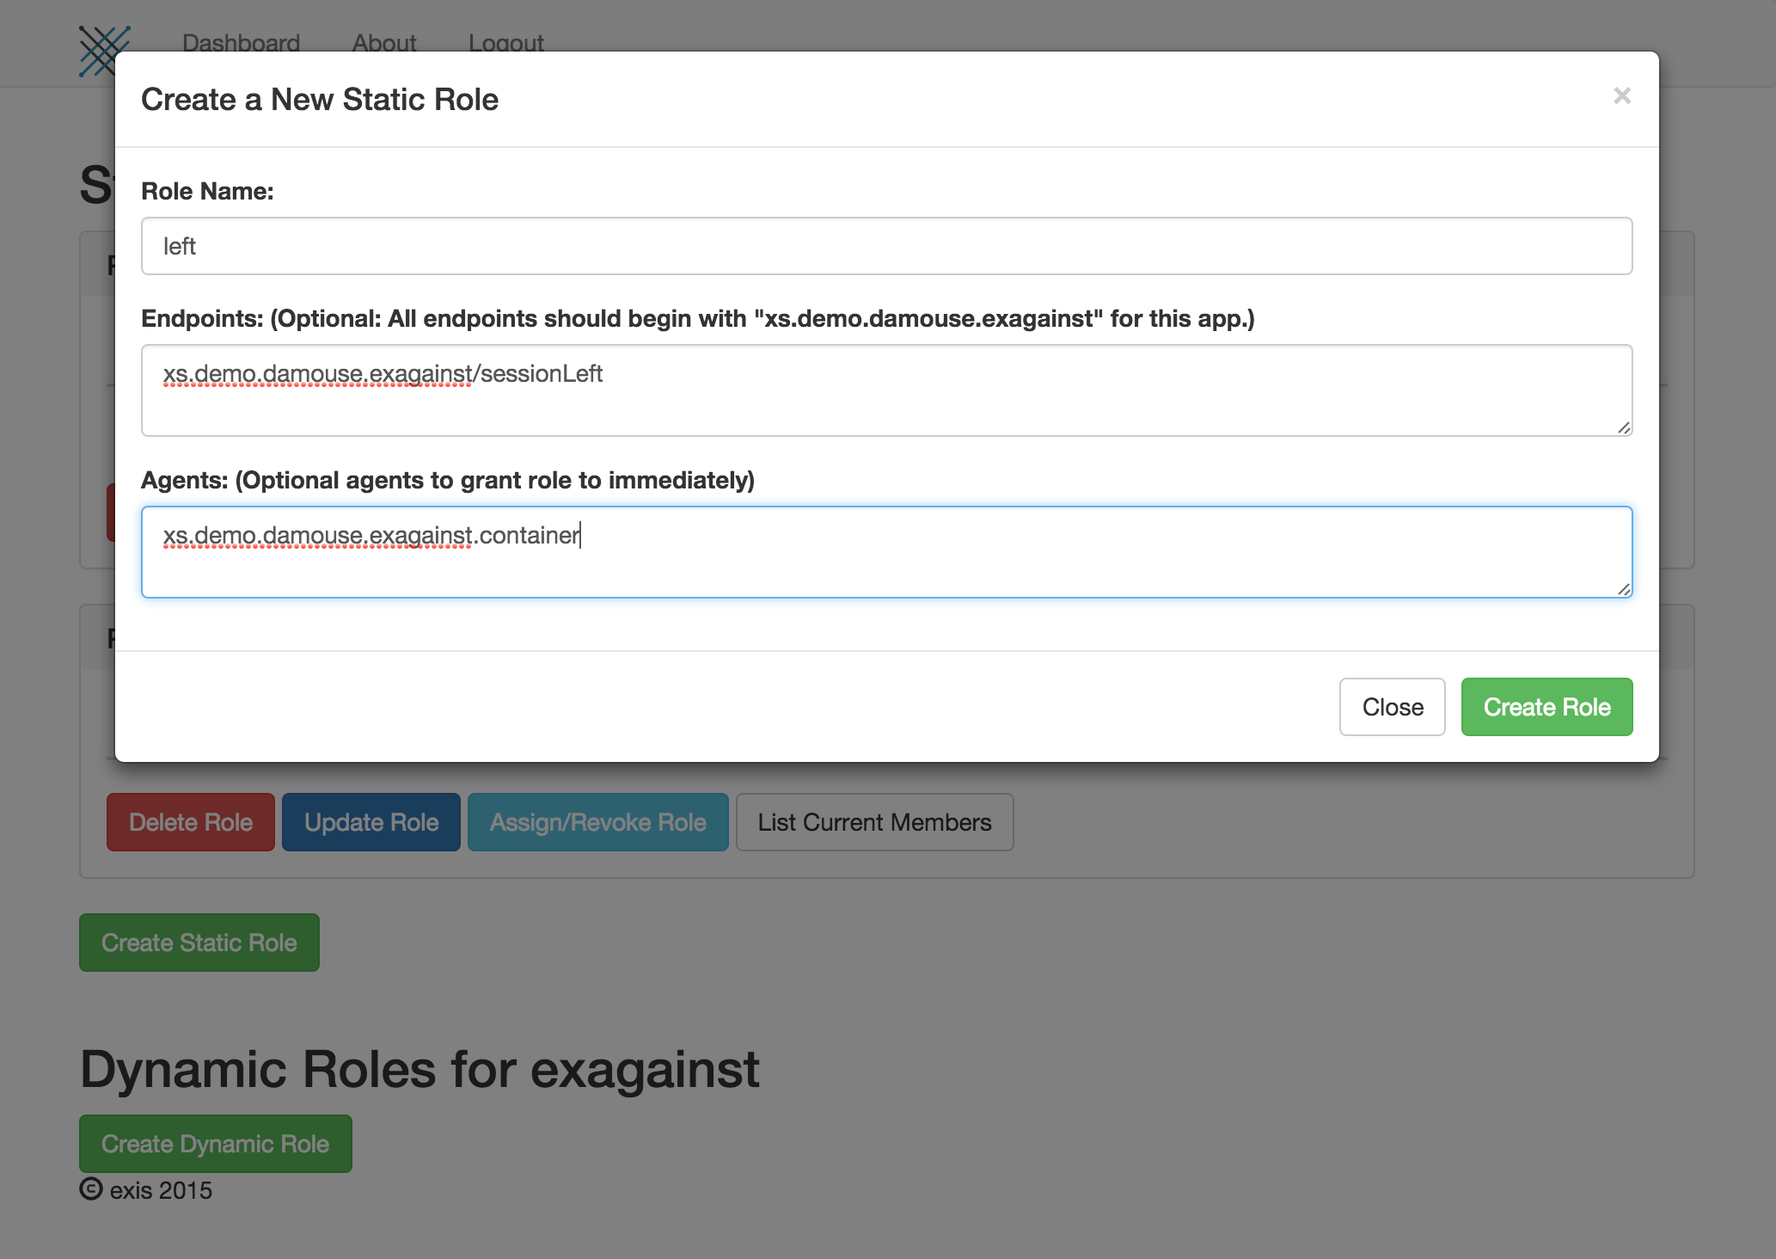
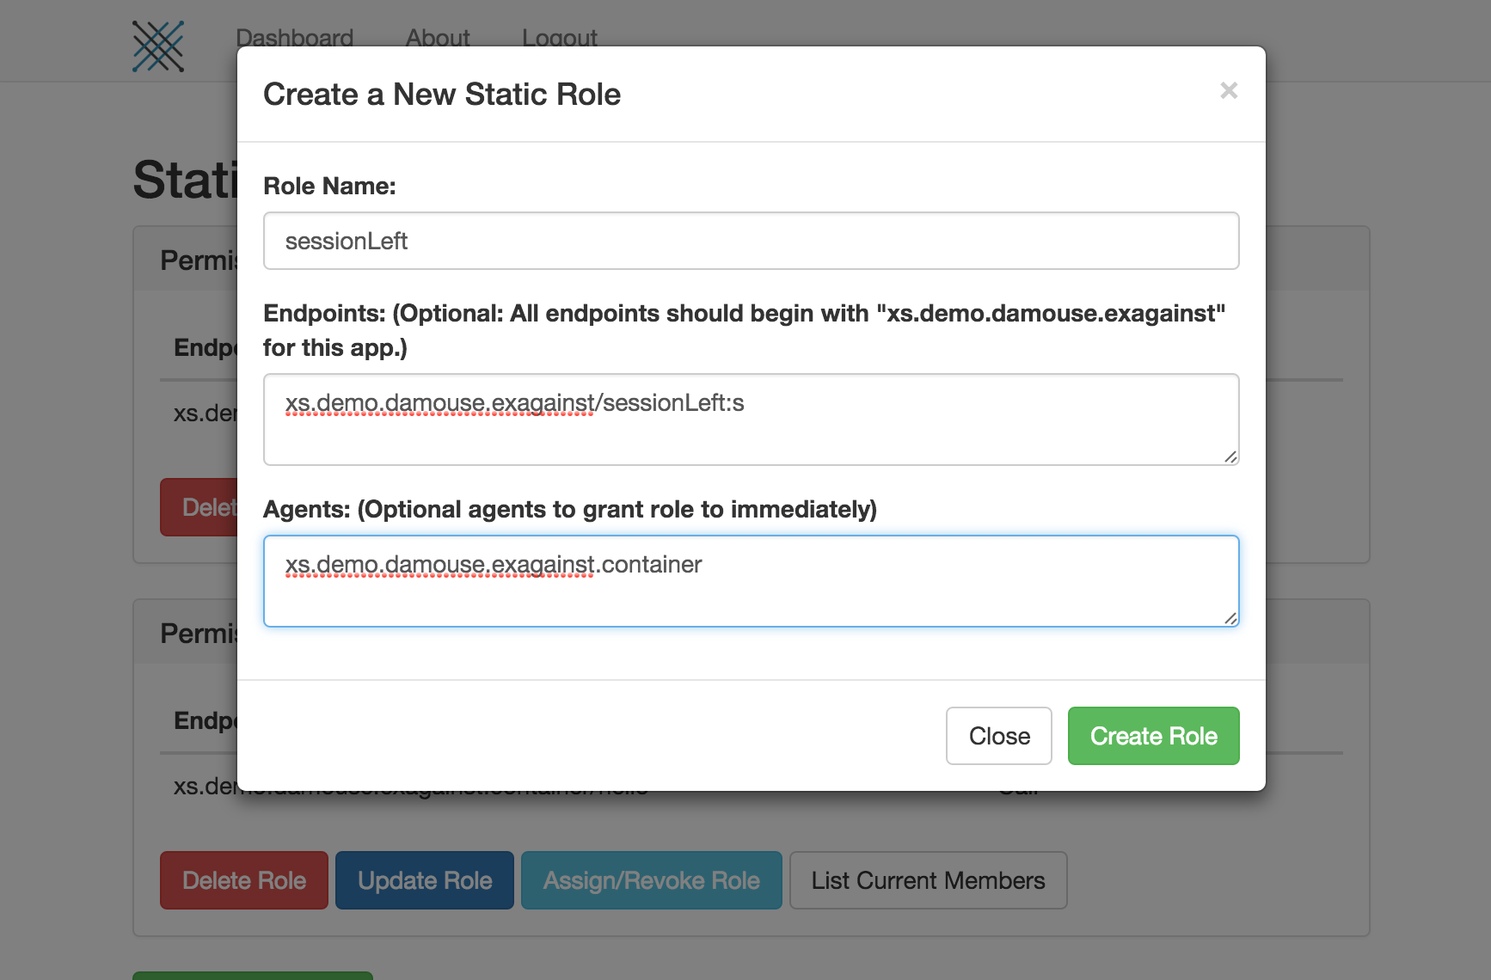
final changes

diff --git a/pages/samples/SwiftCardsTutorial.md b/pages/samples/SwiftCardsTutorial.md
@@ -1,9 +1,12 @@
 # iOS Tutorial- Cards Against Humanity 
 
-__NOTE:__ Xcode `7.1` introduces some issues with Cocoapods, the dependency manager. If you're using this version you may have to do some of these steps differently.  Check your version of xcode: ![Missing Image!](/img/ios-cards-tutorial/app/1-setup/3.PNG)
+__Definition:__Cards Against Humanity is a party game in which players complete fill-in-the-blank statements using mature-content phrases printed on playing cards. The game is available as a free download that players can print to create their own cards, and also available to purchase in published hardcopy. Its development originated from a successful Kickstarter campaign and has received acclaim for its simple concept backed up by its satirical, mature content. The game is available under a non-free Creative Commons license BY-NC-SA https://en.wikipedia.org/wiki/Cards_Against_Humanity
 
+In this tutorial you'll be building an iOS version of Cards Against Humanity that runs over the fabric with a backend written entirely in Swift. 
 
-Cards Against Humanity can't be played peer to peer. Any player with the app could change the code and lie about the cards they have or the cards they're going to play! 
+Cards Against is played between a set of peers, so it seems like the game should be able to run peer to peer, or each player communicating directly with other players. Like all cards games, however, we have to watch out for cheaters! In order to maintain the state of the game and make sure play is fair we'll rely on a *container*, or a program running in the cloud. This container will fufill the role traditionally filled by web servers. 
+
+Lets get going!
 
 ## Creating a new iOS App with Riffle
 
@@ -15,9 +18,11 @@ Enter `ExAgainst` as the name for your new application. Remember the folder wher
 
 ![Missing Image!](/img/ios-cards-tutorial/app/1-setup/2.PNG)
 
-The riffle libraries are distributed as `pods` through cocoapods. Check out more information about cocoapods at their [website](https://cocoapods.org/). 
+The riffle libraries are distributed as `pods` through cocoapods. Check out more information about cocoapods at their [website](https://cocoapods.org/). To check if you have cocoapods installed, open the *Terminal* application and type `pod`. If you see something like this (the colors may not match) then you're ready to go with cocoapods.
 
-If you don't have cocoapods installed, now would be a good time. Follow the instructions on the home page from the link above. Cocoapods relies on `RubyGems`, a dependency manager for the ruby language. You'll need that too. 
+![Missing Image!](/img/ios-cards-tutorial/app/1-setup/10.PNG)
+
+If you don't have cocoapods installed, now would be a good time. Follow the instructions on the home page from the link above. Cocoapods relies on [RubyGems](https://rubygems.org/pages/download), a dependency manager for the ruby language. You'll need that too. 
 
 In order to install riffle you'll first have to create a `Podfile`. This is a simple text file that lists dependencies in Ruby. You can either use your favorite text editor for this or the built in TextEdit app available in OSX. The example below shows TextEdit. Be cafeul-- if you use TextEdit you'll need to convet it to *plaintext* before saving it.
 
@@ -62,16 +67,20 @@ Close any open Xcode windows you may have open. Cocoapods doesn't just copy code
 Here's what the newly created project looks like. Note the `Pods` project below your project in the file navigator. Import riffle by adding the import to the top of the view controller: 
 
 ```
-impot Riffle
+import Riffle
 ```
 
 Run the project and make sure it builds.
 
-__Warning:__ Xcode sometimes gets a little lost and reports errors when none exist. Try building even if an eror appears. Once it goes through the process of building the libraries the errors may dissapear. 
+__Warning:__ Xcode sometimes gets a little lost and reports errors when none exist. Try building even if an eror appears. Once it goes through the process of building the libraries the errors may dissapear.
+
+__NOTE:__ Xcode `7.1` introduces some issues with Cocoapods, the dependency manager. If you see errors relating to `import of non-modular header...` you will have to delete the `Pods/Headers/Private` folder from your project directory. Check your version of xcode: ![Missing Image!](/img/ios-cards-tutorial/app/1-setup/3.PNG)
+
+ 
 
 ![Missing Image!](/img/ios-cards-tutorial/app/1-setup/7.PNG)
 
-__Warning:__ May have to set `embedded swift code` to `Yes` in the pods target if riffle can't be found. 
+<!-- __Warning:__ May have to set `embedded swift code` to `Yes` in the pods target if riffle can't be found.  -->
 
 __NOTE:__ if you see an error on build and you have Xcode 7.1 you'll need to setup a quick workaround. Open the finder and navigate to the project folder. Delete the directory `Pods/Headers/Private` and rebuild. 
 
@@ -96,6 +105,20 @@ Once the dependencies are installed and you have the workspace open go the proje
 
 ![Missing Image!](/img/ios-cards-tutorial/app/1-setup/9.PNG)
 
+The last step in setting up the OSX app is to let Xcode know the *Riffle* libraries contain swift code. If you ever see errors like this:
+
+![Missing Image!](/img/ios-cards-tutorial/app/2-hello/3.PNG)
+
+Then you forgot to do this step. 
+
+1. In the left-side pane, or the *Project Navigator*, click on the *Pods* project with the blue icon. 
+2. Select the `Riffle` target on the left side of the newly opened options pane. It has a yellow toolbox next to it.
+3. Go to `Build Settings` 
+4. Type in *"contains swift"* in the search bar on the options pane
+5. Find the setting `Embedded Content Contains Swift Code` and set it to `Yes`
+
+![Missing Image!](/img/ios-cards-tutorial/app/2-hello/4.PNG)
+
 ## Website Setup
 
 You control the way you interact with Exis through a web interface. This includes creating applications, setting security details, and adding appliances to your applications. 
@@ -118,9 +141,9 @@ Once the app is created you should see the two appliances, *Auth* and *Osxcontai
 
 ![Missing Image!](/img/ios-cards-tutorial/web/1-setup/4.PNG)
 
-All messages over the fabric have to have *Permissions*. For our *Hello, World!* we'll add a static permission that allows your app to call `hello` on the container. 
+All messages over the fabric have to have [*Permissions*][perm]. This allows agents to send messages. For our *Hello, World!* we'll add a static permission that allows your app to call `hello` on the container. 
 
-Click *Create Static Role*.
+From the dashboard click on the blue *Permissions* button. Once on the permissions page, click *Create Static Role*.
 
 ![Missing Image!](/img/ios-cards-tutorial/web/1-setup/5.PNG)
 
@@ -140,7 +163,7 @@ xs.demo.joebob.exagainst.userone
 
 ![Missing Image!](/img/ios-cards-tutorial/web/1-setup/6.PNG)
 
-
+Once you're finished, click on *Create Role*.
 
 ## Hello, Riffle
 
@@ -167,6 +190,9 @@ let app = RiffleAgent(domain: "xs.demo.joebob.exagainst")
 import Foundation
 import Riffle
 
+// Replace "damouse" with your own username!
+let app = RiffleAgent(domain: "xs.demo.damouse.exagainst")
+
 class ContainerAgent: RiffleAgent {
     override func onJoin() {
         print("Agent joined")
@@ -179,10 +205,6 @@ class ContainerAgent: RiffleAgent {
     }
 }
 
-rifflog.DEBUG = true
-
-// Replace "damouse" with your own username!
-let app = RiffleAgent(domain: "xs.demo.damouse.exagainst")
 let container = ContainerAgent(name: "container", superdomain: app)
 container.join()
 
@@ -207,13 +229,13 @@ class ViewController: UIViewController, RiffleDelegate {
      @IBAction func go(sender: AnyObject) {
         
         app = RiffleAgent(domain: "xs.demo.damouse.exagainst")
-        me = RiffleAgent(name: "user", superdomain: app!)
+        me = RiffleAgent(name: "userone", superdomain: app!)
         me!.delegate = self
         me!.join()
     }
     
     func onJoin() {
-        print("Session joined!")
+        print("Agent joined!")
         print("Sending a greeting to the backend!")
         
         container = RiffleAgent(name: "container", superdomain: app!)
@@ -261,6 +283,21 @@ Now change the `go` method you created as an action for the button:
 }
 ```
 
+We have a bit of a problem. Every message on the fabric needs a permission, and each permissions is the agent sending the message and the endpoint the message is headed for. Lets examine our *Hello, World!* permission: 
+
+```
+Agent:       xs.demo.damouse.exagainst.userone
+Endpoint:    xs.demo.damouse.exagainst.container/hello
+```
+
+Because user domains always include their name, how can you give permissions to *all* users? Enter the `Role`. Roles are a set of permissions that can be assigned to all agents. In order to give all users access to the `/hello` function you're going to edit the *User* role. The *User* role holds permissions given to every user.
+
+Head back to the permissions page on [my.exis.io](my.exis.io). Click on *Update Role* in the *User Role* section. Add the endpoint below, substiting your own username for `damouse`. 
+
+![Missing Image!](/img/ios-cards-tutorial/web/2-perms/3.PNG)
+
+### Playing
+
 Lets give the app the ability to start playing. Remember that the container is going to run all the Cards Against rounds as the game goes on. In this app we're going to call each group of players in play a `Room.` The room is going to keep track of the cards and players in play at once and handle the actual gameplay. The container is responsible for creating rooms and assigning users to them. 
 
 `Rooms` need to know when players leave the app or their room-- they have to remove them from play. Ideally the player should let their rooms know when they leave the game, but we still have to check for silent disconnections from the user. 
@@ -269,17 +306,17 @@ Lets give the app the ability to start playing. Remember that the container is g
 
 Thankfully the node will provide. When an agent disconnects from the fabric, the node they were connected to publishes a special message *in its parent domain.* This message is published to the action `/sessionLeft`. In order for the container to receive this message we have to give it the appropriate permission.
 
-Create a new static permission to match the image shown below. Again, remember to substitue your own username for `damouse` in both domains.
+Create a new static permission to match the image shown below. Again, remember to substitue your own username for `damouse` in both domains. Note the `:s` at the end of the endpoint! This gives the agent permission to *subscribe*.
 
 ![Missing Image!](/img/ios-cards-tutorial/web/2-perms/1.PNG)
 
-In the container `Agent` object you previously made, add the following line to `onJoin`, where *domain* is the domain of your app. 
+In the container `Agent` object you previously made, add the following line to `onJoin`. 
 
 ```
 app.subscribe("sessionLeft", sessionLeft)
 ```
 
-The `sessionLeft` argument passed as the last argument to the subscribe method is a pointer to a function. You'll also need to implement the function:
+The `sessionLeft` argument passed as the last argument to the subscribe method is a pointer to a function. You'll also need to implement the function inside the *ContainerAgent* class.
 
 ```
 func sessionLeft(domain: String) {
@@ -287,7 +324,7 @@ func sessionLeft(domain: String) {
 }
 ```
 
-As the name implies, we should see this method get called when any user leaves the app. Go ahead and try it out. Once the app is connected and authenticated terminate the app and watch the console output for the container. 
+As the name implies, we should see this method get called when any user leaves the app. Go ahead and try it out-- run the container and the app again. Once the app is connected and authenticated terminate the app and watch the console output for the container. 
 
 ![Missing Image!](/img/ios-cards-tutorial/app/3-auth/2.PNG)
 
@@ -297,13 +334,19 @@ We're missing the actual cards in our card game! Time to fix that. In this secti
 
 Riffle provides a useful wrapper model named *RiffleModel*. These classes are special-- you don't have to manually serialize them to send them to other agents. 
 
-TODO: check the multi target config again, or try the multiple project config here. If it fails, explain the shared code. 
-
-Unfortunatly, there's an important limitation to keep in mind when working with RiffleModels in Xcode. Sadly, the process of working with two targets, or apps, in the same Xcode project is a little buggy right now. When an agent receives a RiffleModel it has to have the definition of the class in the same project. This means you'll need to create the Class twice, once for the container and once for the app. 
+Unfortunatly, there's an important limitation to keep in mind when working with RiffleModels in Xcode. Sadly, the process of working with two targets, or apps, in the same Xcode project is currently unstable. When an agent receives a RiffleModel it has to have the definition of the class in the same project. This means you'll need to create the Class twice, once for the container and once for the app. 
 
 Create a new class in both projects. Name it *Card*, make sure it inherits from RiffleModel, and give it one property: a string called *text.*
 
-![Missing Image!](/img/ios-cards-tutorial/app/4-data/1.PNG)
+```
+import Foundation
+import Riffle
+
+class Card: RiffleModel {
+    var id = -1
+    var text = ""
+}
+```
 
 The object represents the data, but we still have to build the data. Download the data for the cards [here](/img/pg13.zip). Unzip the file and drag it into your project. Make sure to select *Copy items if needed* and make sure *Add to targets* is checked for your project. 
 
@@ -360,7 +403,7 @@ print(deck.questions)
 
 If you see a listing of Card objects then the deck loaded successfully-- if not then there may be something wrong with your project's configuration. Now lets get this content to the iOS app. 
 
-Delete the deck testing code and move the deck instantiation into the Session class as an instance variable. Make a new method in the OSX's *Session* class for apps to call when they're ready to start playing. Return all the answers in the deck. 
+Delete the deck testing code and move the deck instantiation into the Session class as an instance variable. Make a new method in the OSX's *Agent* class for apps to call when they're ready to start playing. Return all the answers in the deck. 
 
 __NOTE:__ all returns from *registered* functions have to be wrapped in an array if they're returning arrays. Note the braces around `deck.answers` below.
 
@@ -371,34 +414,18 @@ func play(domain: String) -> AnyObject {
 }
 ```
 
-Remember the first method we made in this class, our *Hello, World*. Making a function in a session object is not enough to expose it to the fabric-- there's no way for the session to know which of its methods should be exposed and when! You still have to register the function so the iOS app can call it. This task is left to you, reader: register the *play* function with the action `/play`.
+Remember the first method we made in this class, our *Hello, World*. Making a function in a session object is not enough to expose it to the fabric-- there's no way for the session to know which of its methods should be exposed and when! You still have to register the function so the iOS app can call it. This task is left to you, reader: register the *play* function with the action `/play`. Be careful to call `register` on the *container* object, not *app*!
 
-We have a bit of a problem. Every message on the fabric needs a permission, and each permissions is the agent sending the message and the endpoint the message is headed for. Lets examine our *Hello, World!* permission: 
+We want all players to be able to access this function! You'll need to automatically give all players permission to call the `/play` action. Go back to the *Hello, World!* example and review Roles, then add a new endpoint to the role. 
 
-```
-Agent:       xs.demo.damouse.exagainst.userone
-Endpoint:    xs.demo.damouse.exagainst.container/hello
-```
+Write the code in the iOS app to call the `/play` action. Remember to substitute your own endpoint instead of the one listed in the example below.
 
-Because user domains always include their name, how can you give permissions to *all* users? Enter the `Role`. Roles are a set of permissions that can be assigned to all agents. In order to give all users access to the `/play` function you're going to edit the *User* role. The *User* role holds permissions given to every user.
-
-Head back to the permissions page on [my.exis.io](my.exis.io). Click on *Update Role* in the *User Role* section. Add the endpoints below, substiting your own username for `damouse`.
-
-![Missing Image!](/img/ios-cards-tutorial/web/2-perms/2.PNG)
-
-Once finished, write the code in the iOS app to call the `/play` action. Remember to substitute your own endpoint instead of the one listed in the example below.
-
-```
-container!.call("play", me!.domain) { (cards: [Card]) in
-        print("\(cards) Got \(cards.count) cards")
-    }
-```
 
 ## Back and Forth
 
-We can pass cards back and forth but can't show them off to the user yet. In this section you'll create a table to list all the cards and wire up the table to alert the container when a card is touched. This is the last section of part 1.
+We can pass cards back and forth, but we cant tell the container when the user picks a card. In this section you'll create a table to list all the cards and wire up the table to alert the container when a card is touched. This is the last section of part 1.
 
-Create a new view controller.
+Create a new view controller in the iOS app.
 
 ![Missing Image!](/img/ios-cards-tutorial/app/5-ui/1.PNG)
 
@@ -414,7 +441,7 @@ Set the controller to subclass GameViewController.
 
 ![Missing Image!](/img/ios-cards-tutorial/app/5-ui/4.PNG)
 
-Add a UITableView to the controller. Resize it so it takes up the whole space. Select the controller and click the *Identity Inspector* button on the top of the right pane as shown in the image below. Set the *Storyboard ID* of the controller to *game*. This allows our starting ViewController class to find the *GameViewController* at runtime easily.
+Add a UITableView to the controller. Resize it so it takes up the whole space. Select the controller and click the *Identity Inspector* button on the top of the right pane as shown in the image below. Set the *Storyboard ID* of the controller to `game`. This allows our starting ViewController class to find the *GameViewController* at runtime easily.
 
 ![Missing Image!](/img/ios-cards-tutorial/app/5-ui/5.PNG)
 
@@ -434,6 +461,7 @@ class GameViewController: UIViewController {
     @IBOutlet weak var tableCards: UITableView!
     var cards: [Card] = []
     var container: RiffleAgent!
+    var me: RiffleAgent!
     
     
     override func viewWillAppear(animated: Bool) {
@@ -461,10 +489,11 @@ These are the UITableView *delegate* and *datasource* methods. They're called wh
 Inside *ViewController* change the `/play` call to match the code below. Now, instead of printing all the cards we receive from the container, we load the *GameViewController* from the storyboard, give it the cards we just loaded, and present it. 
 
 ```
-    session!.call("xs.demo.damouse.exagainst.container/play", session!.domain) { (cards: [Card]) in
+    container!.call("play", me!.domain) { (cards: [Card]) in
         let controller = UIStoryboard(name: "Main", bundle: nil).instantiateViewControllerWithIdentifier("game") as! GameViewController
         
         controller.container = self.container
+        controller.me = self.me!
         controller.cards = cards
         
         self.presentViewController(controller, animated: true, completion: nil)
@@ -475,11 +504,13 @@ Inside *ViewController* change the `/play` call to match the code below. Now, in
 
 Run the app, enter a username, and press *go*. You should see a scrollable list of cards.
 
+![Missing Image!](/img/ios-cards-tutorial/app/5-ui/9.PNG)
+
 The final step in part 1 is informing the container of touch events on cards. Once we start building more of the app, this is how the user will "play" cards.
 
-At this point you've performed two registrations on the container and two calls in the app, so you've got to figure out this last one on your own! Register a method in the container that accepts two strings and prints them to the console. 
+At this point you've performed two registrations on the container and two calls in the app, so you've got to figure out this last one on your own! Register a method on the container that accepts two strings and prints them to the console. The name of this method is up to you. Remember to add it to the *Users* role!
 
-In the app call the endpoint you registered previously. Pass your name as the first argument with  `session.domain` and the text of the card (see `cellForRowAtIndexPath` for hints on how to get the touched card's text.) 
+From the iOS app call this new endpoint in the *GameViewController*'s `didSelectRowAtIndexPath` method. Pass your domain with `me.domain` and the text of the selected card (see `cellForRowAtIndexPath` for hints on how to get the touched card's text.)
 
 ```
 func tableView(tableView: UITableView, didSelectRowAtIndexPath indexPath: NSIndexPath) {
@@ -487,8 +518,29 @@ func tableView(tableView: UITableView, didSelectRowAtIndexPath indexPath: NSInde
 }
 ```
 
-Once the two are wired up restart the container and the app and make sure you can see the text of the card in the container's log. 
+Once the two are wired up restart the container and the app. When you touch a card in the app, you should see the container report the event:
+
+```
+[xs.demo.damouse.exagainst.userthree] touched the card: "The ghost of Marlon Brando"
+```
 
 ## Conclusion
 
 If it doesn't seem like you wrote much of a game so far, don't worry. The components you made in part 1 are almost all the bits needed to make the working game. In part 2 we'll set up the game logic clean up the interface.
+
+
+
+<!-- Reference for TOC -->
+
+[message]:/pages/riffle/Message.md
+[agent]:/pages/riffle/Agent.md
+[node]:/pages/fabric/Node.md
+[fabric]:/pages/fabric/Fabric.md
+[domain]:/pages/riffle/Domain.md
+[action]:/pages/riffle/Agent.md
+[endpoint]:/pages/riffle/Endpoint.md
+[samples]:/pages/samples/Samples.md
+
+[auth]:/pages/appliances/Auth-Appliance.md
+
+[perm]:/pages/security/Permission.md

diff --git a/pages/general/Home.md b/pages/general/Home.md
@@ -3,6 +3,8 @@
 Exis is built to make networking code simple, painless, and secure. Writing networking code should be as easy as writing local code!
 Please check out our documentation, and follow along with code from our [repos](https://github.com/exis-io).
 
+Want to learn about Exis quickly? Run through the [Tour.](/pages/tour/Tour.md)
+
 Check out the [**iOS Cards Against Humanity Tutorial!**](/pages/samples/SwiftCardsTutorial.md)
 
 ## Overview
